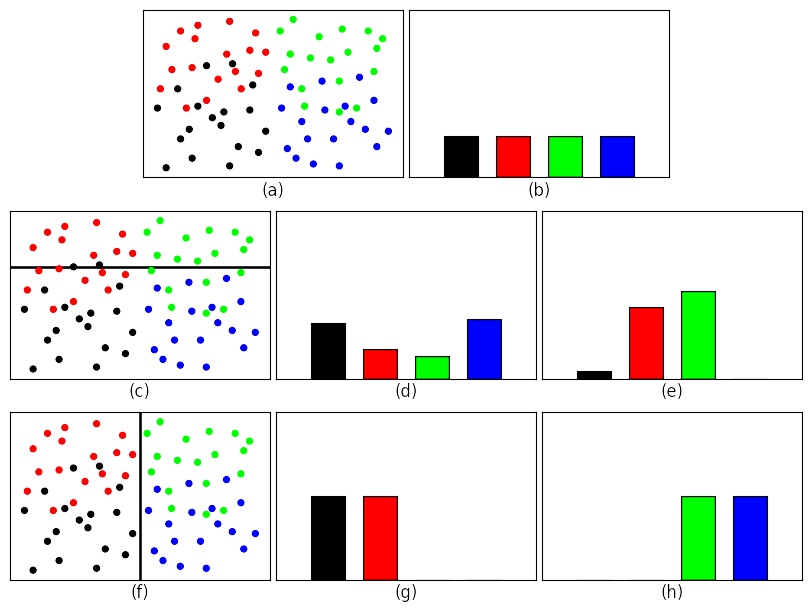
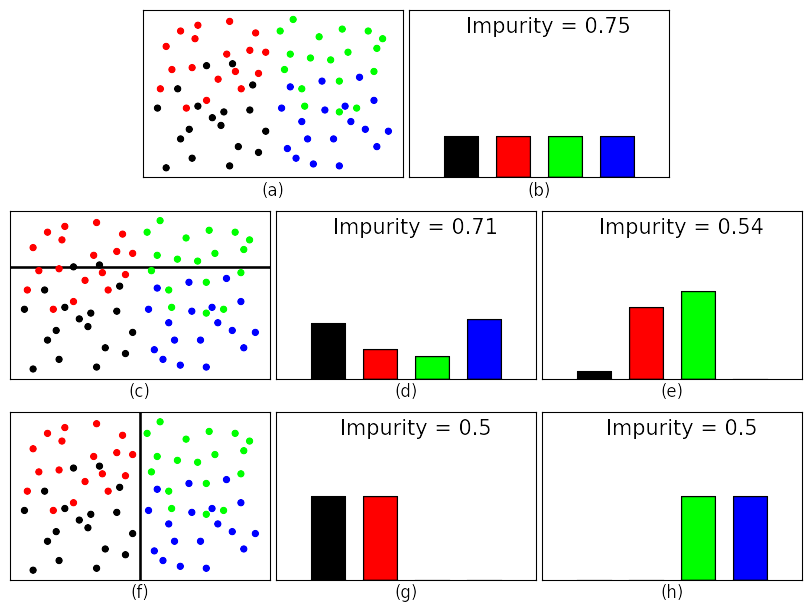
Update to include the Gini impurity calculations

diff --git a/src/examples/DecisionTreeSplitting.py b/src/examples/DecisionTreeSplitting.py
@@ -6,6 +6,7 @@ import sys
 import os
 parent_dir = os.path.dirname(os.path.dirname(os.path.abspath(__file__)))
 sys.path.insert(0, parent_dir)
+import addtext
 import barchart
 import linegraph
 import scatterplot
@@ -49,6 +50,9 @@ def main(figureSaveLocation):
     class4Size = 30
     class4BarXLoc = 2.25
     class4BarWidth = 0.5
+
+    # Counts of each class (for use in the gini calculation).
+    originalClassCounts = [len(class1X), len(class2X), len(class3X), len(class4X)]
 
     # Aggregate all class information.
     scatterXValues = [class1X, class2X, class3X, class4X]  # The X values for the four different classes.
@@ -100,61 +104,77 @@ def main(figureSaveLocation):
     class3BarHeight = len(class3X)
     class4BarHeight = len(class4X)
     barHeightValues = [class1BarHeight, class2BarHeight, class3BarHeight, class4BarHeight]
+    leftChildImpurity, rightChildImpurity, splitImpurity = calculateGini(originalClassCounts, originalClassCounts, originalClassCounts)
     totalObservations = sum(barHeightValues)  # Determine how many datapoints are in the scatter plot.
     barHeightValues = [i / totalObservations for i in barHeightValues]  # The height of each bar is the fraction of the total datapoints from the class the bar corresponds to.
     barchart.graphGeneration(barChartXLocations, barHeightValues, currentFigure=currentFigure, colors=colors, widths=barChartWidths)
+    addtext.graphGeneration([1.5], [0.9], ['Impurity = ' + str(round(leftChildImpurity, 2))], currentFigure=currentFigure, sizes=[15])
     topRowBarChart.set_xlim(left=min(barChartXLocations) - 0.5, right=max(barChartXLocations) + (0.5 + class4BarWidth))  # Get the same amount of white space on the left of the class 1 bar and right of the class 4 bar.
     topRowBarChart.set_ylim(bottom=0.0, top=1.0)
 
-    # Create the left bar chart for the middle row.
-    midRowLeftBarChart = plt.subplot(gsMidRow[1, 2:4])  # Left bar chart for the middle row takes up the third and fourth of the six columns.
+    # Determine the class counts and impurity for each child node in the middle row.
     class1LeftPlotBarHeight = len([i for i in class1Y if i <= midPlotHorizontalSplit])  # The number of class 1 points in the left split is the number with Y value <= the Y value of the horizontal split.
     class2LeftPlotBarHeight = len([i for i in class2Y if i <= midPlotHorizontalSplit])  # The number of class 2 points in the left split is the number with Y value <= the Y value of the horizontal split.
     class3LeftPlotBarHeight = len([i for i in class3Y if i <= midPlotHorizontalSplit])  # The number of class 3 points in the left split is the number with Y value <= the Y value of the horizontal split.
     class4LeftPlotBarHeight = len([i for i in class4Y if i <= midPlotHorizontalSplit])  # The number of class 4 points in the left split is the number with Y value <= the Y value of the horizontal split.
+    leftChildClassCounts = [class1LeftPlotBarHeight, class2LeftPlotBarHeight, class3LeftPlotBarHeight, class4LeftPlotBarHeight]
+    class1RightPlotBarHeight = len([i for i in class1Y if i > midPlotHorizontalSplit])  # The number of class 1 points in the right split is the number with Y value > the Y value of the horizontal split.
+    class2RightPlotBarHeight = len([i for i in class2Y if i > midPlotHorizontalSplit])  # The number of class 2 points in the right split is the number with Y value > the Y value of the horizontal split.
+    class3RightPlotBarHeight = len([i for i in class3Y if i > midPlotHorizontalSplit])  # The number of class 3 points in the right split is the number with Y value > the Y value of the horizontal split.
+    class4RightPlotBarHeight = len([i for i in class4Y if i > midPlotHorizontalSplit])  # The number of class 4 points in the right split is the number with Y value > the Y value of the horizontal split.
+    rightChildClassCounts = [class1RightPlotBarHeight, class2RightPlotBarHeight, class3RightPlotBarHeight, class4RightPlotBarHeight]
+    leftChildImpurity, rightChildImpurity, splitImpurity = calculateGini(originalClassCounts, leftChildClassCounts, rightChildClassCounts)
+
+    # Create the left bar chart for the middle row.
+    midRowLeftBarChart = plt.subplot(gsMidRow[1, 2:4])  # Left bar chart for the middle row takes up the third and fourth of the six columns.
     barHeightValues = [class1LeftPlotBarHeight, class2LeftPlotBarHeight, class3LeftPlotBarHeight, class4LeftPlotBarHeight]
     totalObservationsInSplit = sum(barHeightValues)  # Determine how many datapoints are below or on the line in the scatter plot.
     barHeightValues = [i / totalObservationsInSplit for i in barHeightValues] # The height of each bar is the fraction of the total datapoints from the class the bar corresponds to.
     barchart.graphGeneration(barChartXLocations, barHeightValues, currentFigure=currentFigure, colors=colors, widths=barChartWidths)
+    addtext.graphGeneration([1.5], [0.9], ['Impurity = ' + str(round(leftChildImpurity, 2))], currentFigure=currentFigure, sizes=[15])
     midRowLeftBarChart.set_xlim(left=min(barChartXLocations) - 0.5, right=max(barChartXLocations) + (0.5 + class4BarWidth))  # Get the same amount of white space on the left of the class 1 bar and right of the class 4 bar.
     midRowLeftBarChart.set_ylim(bottom=0.0, top=1.0)
 
     # Create the right bar chart for the middle row.
     midRowRightBarChart = plt.subplot(gsMidRow[1, 4:])  # Right bar chart for the middle row takes up the fifth and sixth of the six columns.
-    class1RightPlotBarHeight = len([i for i in class1Y if i > midPlotHorizontalSplit])  # The number of class 1 points in the right split is the number with Y value > the Y value of the horizontal split.
-    class2RightPlotBarHeight = len([i for i in class2Y if i > midPlotHorizontalSplit])  # The number of class 2 points in the right split is the number with Y value > the Y value of the horizontal split.
-    class3RightPlotBarHeight = len([i for i in class3Y if i > midPlotHorizontalSplit])  # The number of class 3 points in the right split is the number with Y value > the Y value of the horizontal split.
-    class4RightPlotBarHeight = len([i for i in class4Y if i > midPlotHorizontalSplit])  # The number of class 4 points in the right split is the number with Y value > the Y value of the horizontal split.
     barHeightValues = [class1RightPlotBarHeight, class2RightPlotBarHeight, class3RightPlotBarHeight, class4RightPlotBarHeight]
     totalObservationsInSplit = sum(barHeightValues)  # Determine how many datapoints are above the line in the scatter plot.
     barHeightValues = [i / totalObservationsInSplit for i in barHeightValues] # The height of each bar is the fraction of the total datapoints from the class the bar corresponds to.
     barchart.graphGeneration(barChartXLocations, barHeightValues, currentFigure=currentFigure, colors=colors, widths=barChartWidths)
+    addtext.graphGeneration([1.5], [0.9], ['Impurity = ' + str(round(rightChildImpurity, 2))], currentFigure=currentFigure, sizes=[15])
     midRowRightBarChart.set_xlim(left=min(barChartXLocations) - 0.5, right=max(barChartXLocations) + (0.5 + class4BarWidth))  # Get the same amount of white space on the left of the class 1 bar and right of the class 4 bar.
     midRowRightBarChart.set_ylim(bottom=0.0, top=1.0)
 
-    # Create the left bar chart for the bottom row.
-    botRowLeftBarChart = plt.subplot(gsBotRow[2, 2:4])  # Left bar chart for the bottom row takes up the third and fourth of the six columns.
+    # Determine the class counts and impurity for each child node in the bottom row.
     class1LeftPlotBarHeight = len([i for i in class1X if i <= botPlotVerticalSplit])  # The number of class 1 points in the right split is the number with X value <= the X value of the vertical split.
     class2LeftPlotBarHeight = len([i for i in class2X if i <= botPlotVerticalSplit])  # The number of class 2 points in the right split is the number with X value <= the X value of the vertical split.
     class3LeftPlotBarHeight = len([i for i in class3X if i <= botPlotVerticalSplit])  # The number of class 3 points in the right split is the number with X value <= the X value of the vertical split.
     class4LeftPlotBarHeight = len([i for i in class4X if i <= botPlotVerticalSplit])  # The number of class 4 points in the right split is the number with X value <= the X value of the vertical split.
+    leftChildClassCounts = [class1LeftPlotBarHeight, class2LeftPlotBarHeight, class3LeftPlotBarHeight, class4LeftPlotBarHeight]
+    class1RightPlotBarHeight = len([i for i in class1X if i > botPlotVerticalSplit])  # The number of class 1 points in the right split is the number with X value > the X value of the vertical split.
+    class2RightPlotBarHeight = len([i for i in class2X if i > botPlotVerticalSplit])  # The number of class 2 points in the right split is the number with X value > the X value of the vertical split.
+    class3RightPlotBarHeight = len([i for i in class3X if i > botPlotVerticalSplit])  # The number of class 3 points in the right split is the number with X value > the X value of the vertical split.
+    class4RightPlotBarHeight = len([i for i in class4X if i > botPlotVerticalSplit])  # The number of class 4 points in the right split is the number with X value > the X value of the vertical split.
+    rightChildClassCounts = [class1RightPlotBarHeight, class2RightPlotBarHeight, class3RightPlotBarHeight, class4RightPlotBarHeight]
+    leftChildImpurity, rightChildImpurity, splitImpurity = calculateGini(originalClassCounts, leftChildClassCounts, rightChildClassCounts)
+
+    # Create the left bar chart for the bottom row.
+    botRowLeftBarChart = plt.subplot(gsBotRow[2, 2:4])  # Left bar chart for the bottom row takes up the third and fourth of the six columns.
     barHeightValues = [class1LeftPlotBarHeight, class2LeftPlotBarHeight, class3LeftPlotBarHeight, class4LeftPlotBarHeight]
     totalObservationsInSplit = sum(barHeightValues)  # Determine how many datapoints are to the left or on the line in the scatter plot.
     barHeightValues = [i / totalObservationsInSplit for i in barHeightValues] # The height of each bar is the fraction of the total datapoints from the class the bar corresponds to.
     barchart.graphGeneration(barChartXLocations, barHeightValues, currentFigure=currentFigure, colors=colors, widths=barChartWidths)
+    addtext.graphGeneration([1.5], [0.9], ['Impurity = ' + str(round(leftChildImpurity, 2))], currentFigure=currentFigure, sizes=[15])
     botRowLeftBarChart.set_xlim(left=min(barChartXLocations) - 0.5, right=max(barChartXLocations) + (0.5 + class4BarWidth))  # Get the same amount of white space on the left of the class 1 bar and right of the class 4 bar.
     botRowLeftBarChart.set_ylim(bottom=0.0, top=1.0)
 
     # Create the rigt bar chart for the bottom row.
     botRowRightBarChart = plt.subplot(gsBotRow[2, 4:])  # Right bar chart for the bottom row takes up the fifth and sixth of the six columns.
-    class1RightPlotBarHeight = len([i for i in class1X if i > botPlotVerticalSplit])  # The number of class 1 points in the right split is the number with X value > the X value of the vertical split.
-    class2RightPlotBarHeight = len([i for i in class2X if i > botPlotVerticalSplit])  # The number of class 2 points in the right split is the number with X value > the X value of the vertical split.
-    class3RightPlotBarHeight = len([i for i in class3X if i > botPlotVerticalSplit])  # The number of class 3 points in the right split is the number with X value > the X value of the vertical split.
-    class4RightPlotBarHeight = len([i for i in class4X if i > botPlotVerticalSplit])  # The number of class 4 points in the right split is the number with X value > the X value of the vertical split.
     barHeightValues = [class1RightPlotBarHeight, class2RightPlotBarHeight, class3RightPlotBarHeight, class4RightPlotBarHeight]
     totalObservationsInSplit = sum(barHeightValues)  # Determine how many datapoints are to the right of the line in the scatter plot.
     barHeightValues = [i / totalObservationsInSplit for i in barHeightValues] # The height of each bar is the fraction of the total datapoints from the class the bar corresponds to.
     barchart.graphGeneration(barChartXLocations, barHeightValues, currentFigure=currentFigure, colors=colors, widths=barChartWidths)
+    addtext.graphGeneration([1.5], [0.9], ['Impurity = ' + str(round(rightChildImpurity, 2))], currentFigure=currentFigure, sizes=[15])
     botRowRightBarChart.set_xlim(left=min(barChartXLocations) - 0.5, right=max(barChartXLocations) + (0.5 + class4BarWidth))  # Get the same amount of white space on the left of the class 1 bar and right of the class 4 bar.
     botRowRightBarChart.set_ylim(bottom=0.0, top=1.0)
 
@@ -202,6 +222,26 @@ def removeTickLabels(axes, xAxis=False, yAxis=False):
         axes.set_xticklabels([])
     if yAxis:
         axes.set_yticklabels([])
+
+def calculateGini(parentClassCounts, leftChildClassCounts, rightChildClassCounts):
+    """Calculates the Gini impurity for a split.
+    """
+
+    # Determine the number of observations in the parent node.
+    parentNodeObservationCount = sum(parentClassCounts)
+
+    # Determine the number of observations in the left child and its impurity.
+    leftChildObservationCount = sum(leftChildClassCounts)
+    leftChildImpurity = 1 - sum([(i / leftChildObservationCount) ** 2 for i in leftChildClassCounts])
+
+    # Determine the number of observations in the right child and its impurity.
+    rightChildObservationCount = sum(rightChildClassCounts)
+    rightChildImpurity = 1 - sum([(i / rightChildObservationCount) ** 2 for i in rightChildClassCounts])
+
+    # Determine the impurity of the split.
+    splitImpurity = ((leftChildObservationCount / parentNodeObservationCount) * leftChildImpurity) + ((rightChildObservationCount / parentNodeObservationCount) * rightChildImpurity)
+
+    return leftChildImpurity, rightChildImpurity, splitImpurity
 
 
 if __name__ == '__main__':
